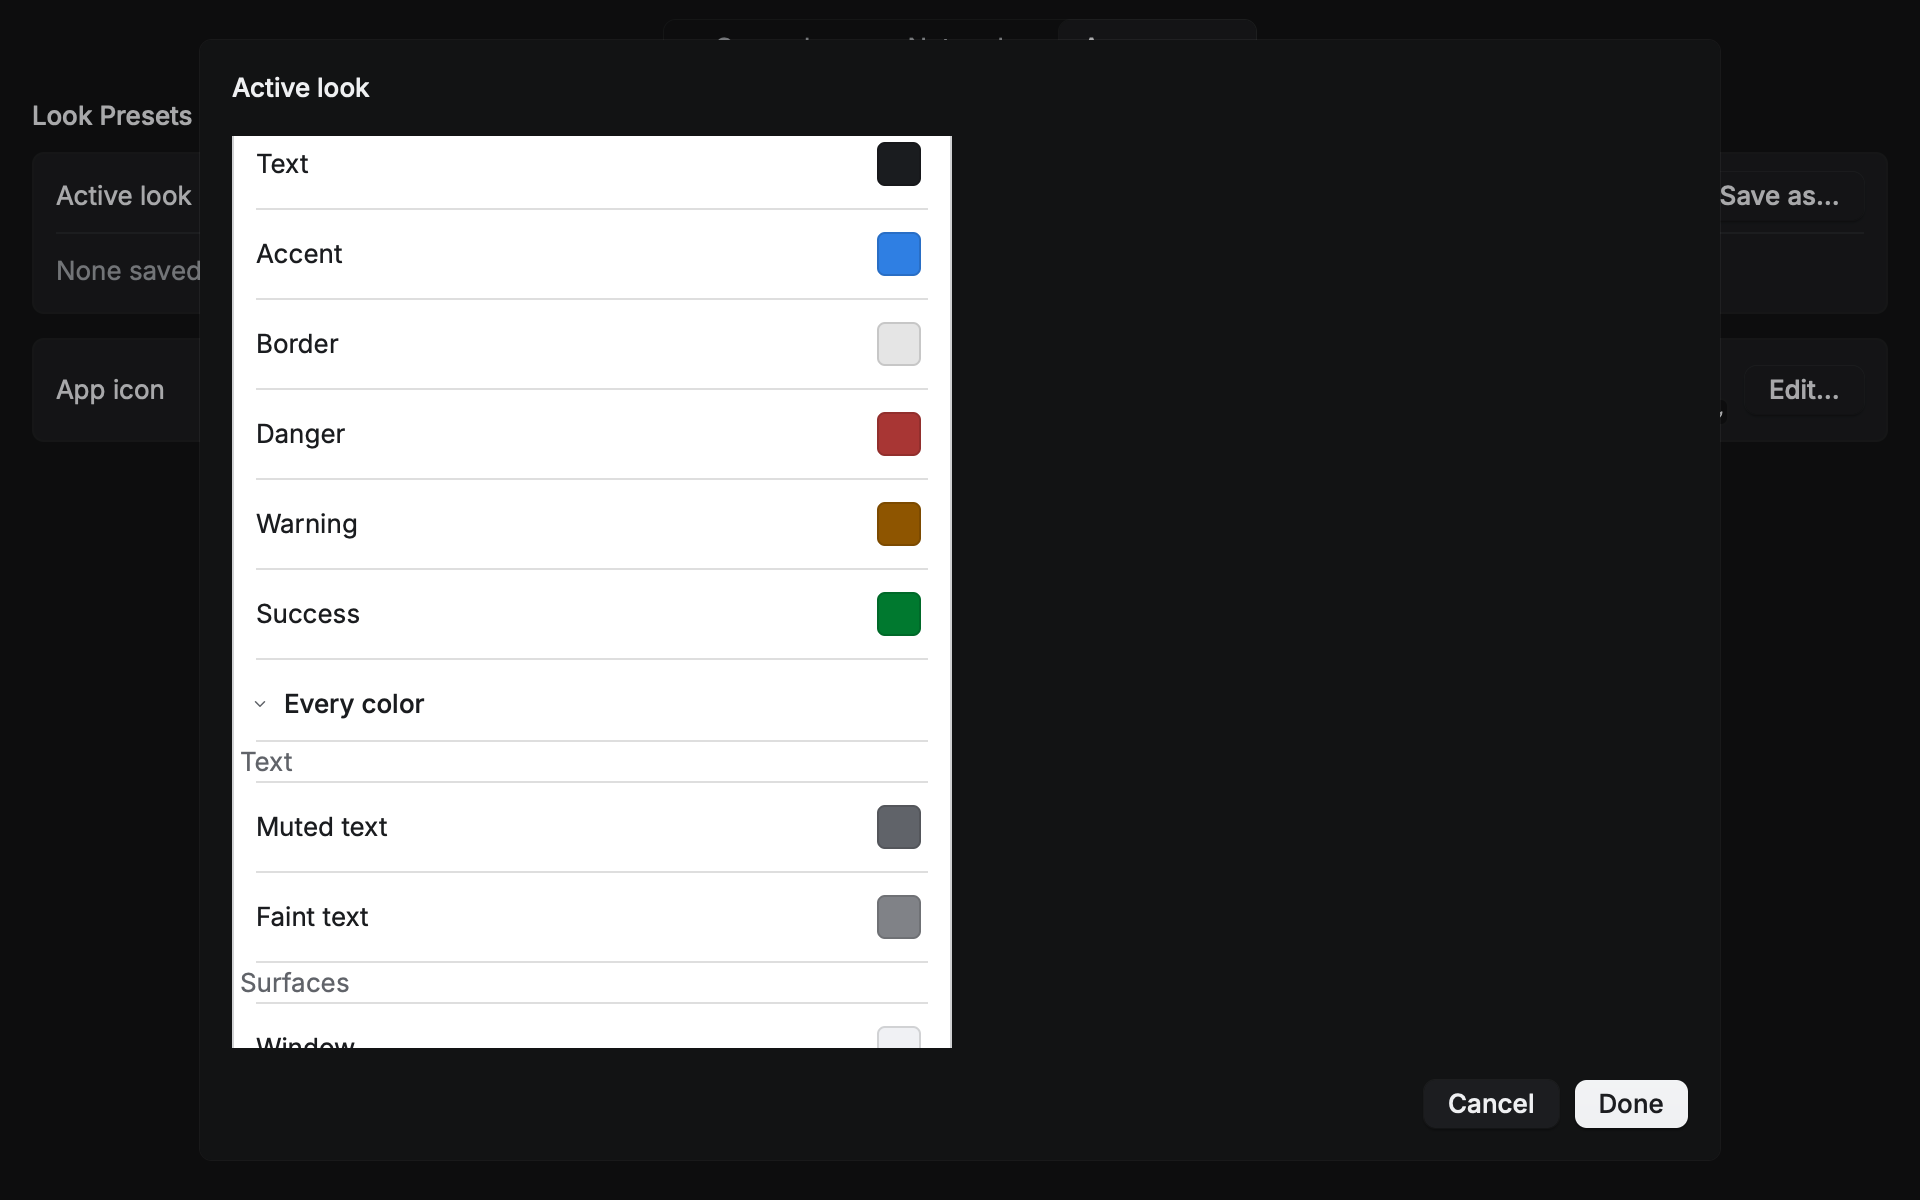
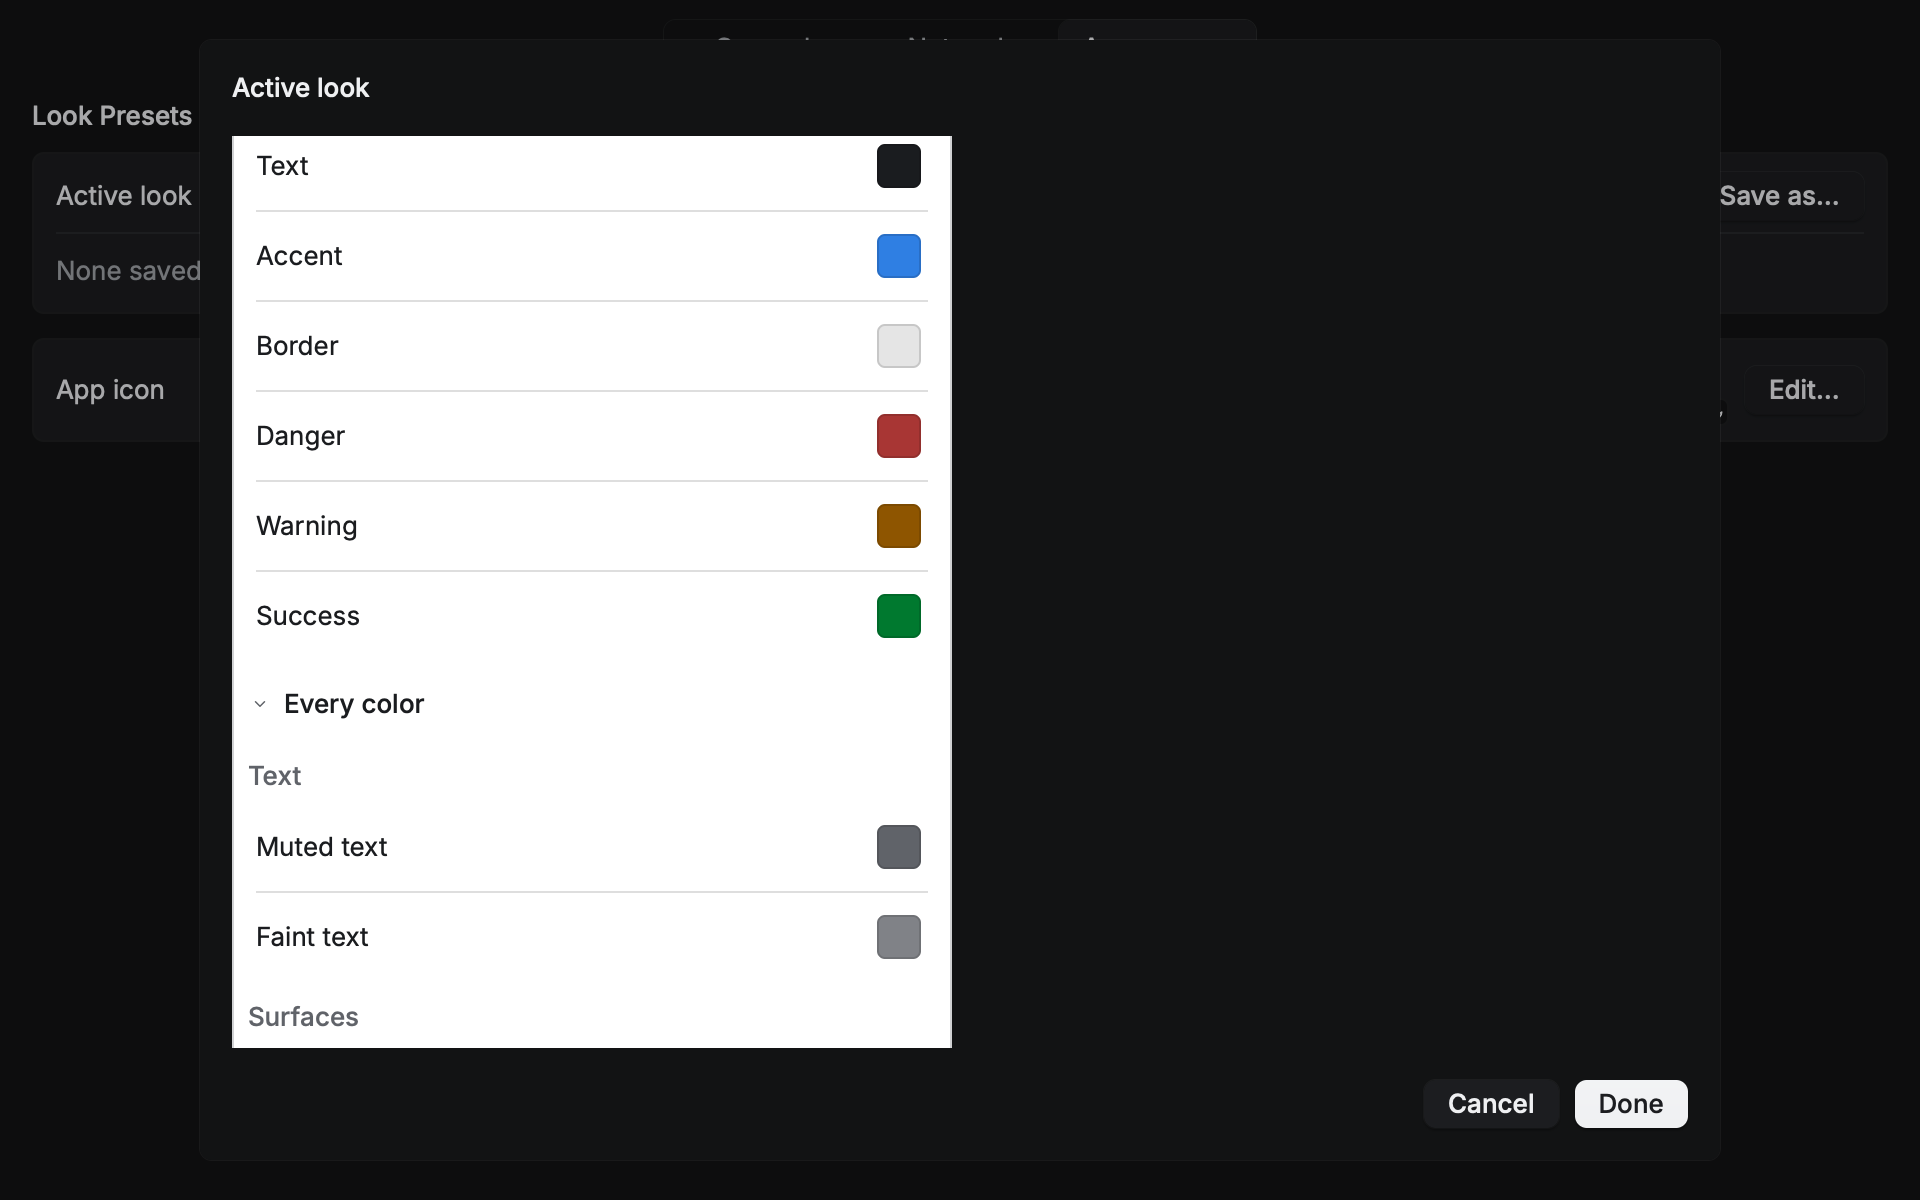
Artifacts for 417-colors

diff --git a/417-colors/index.md b/417-colors/index.md
@@ -1,6 +1,6 @@
 # #417 Colors (branch 417-colors)
 
-Headless renders (re-rendered after review round 1: no subtitle under Colors; after round 2: the picker placed for its tallest and drawn at its own height, the hex field short; the popup, two-theme and drag-after artifacts) (`--at 0.5`, 2x unless noted) of the real build, Light and Dark system Appearance (the sheet shows both halves either way). Data and downloads in temp dirs.
+Headless renders (re-rendered after review round 1: no subtitle under Colors; after round 2: the picker placed for its tallest and drawn at its own height, the hex field short; the popup, two-theme and drag-after artifacts); round 3: no hairline around a section's or group's header in the two-theme lists, and every popup, two-theme and Every color still rendered again from it (`--at 0.5`, 2x unless noted) of the real build, Light and Dark system Appearance (the sheet shows both halves either way). Data and downloads in temp dirs.
 
 - [sheet-light.png](sheet-light.png), [-dark](sheet-dark.png): the Active look's sheet: Look (Corners, Motion), Colors and the eight bases. 960x600.
 - [narrow-sheet-light.png](narrow-sheet-light.png), [-dark](narrow-sheet-dark.png): the same at 640x600.
